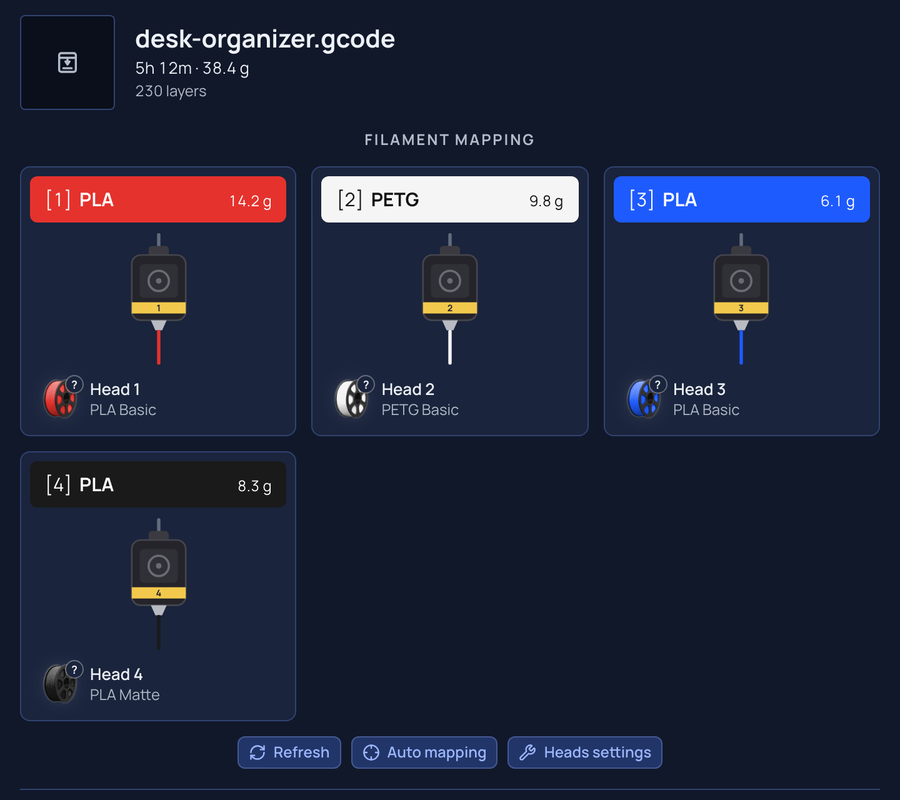
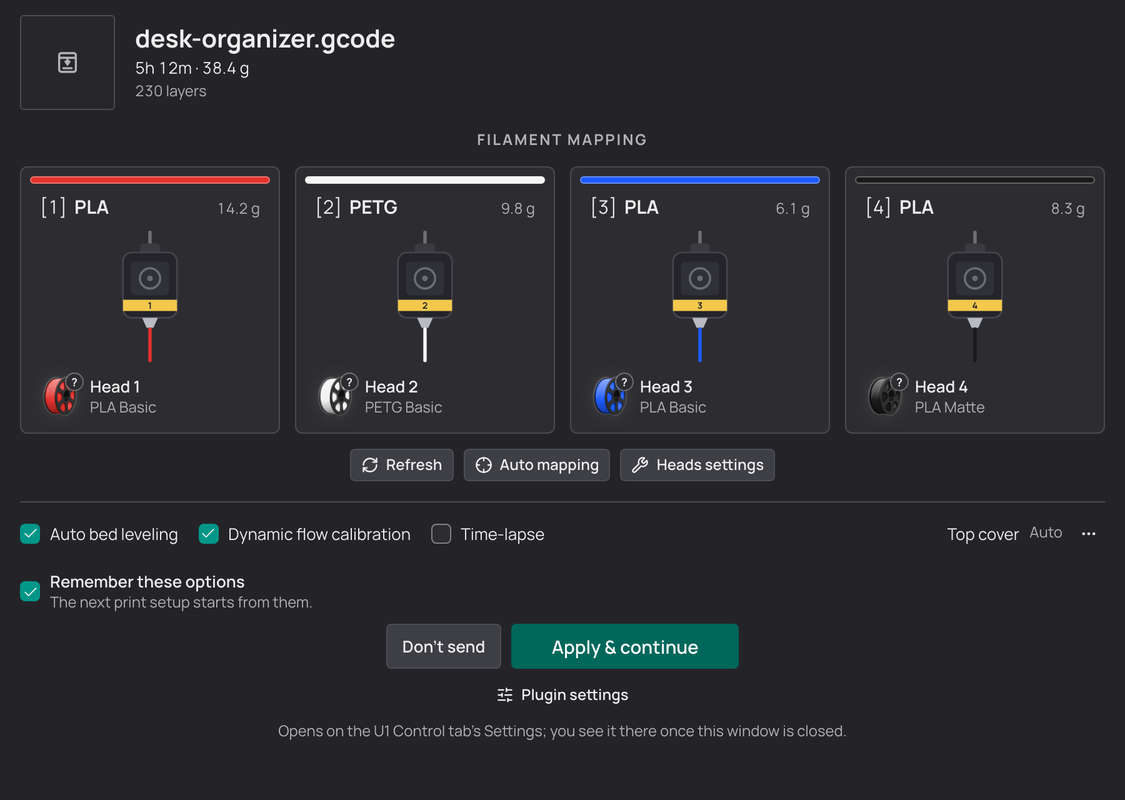
docs(images): re-render the README and listing pictures in the new look
Every export of scripts/render_images.py, from the page on the UI foundation
5.0.7, in English and Brazilian Portuguese.

The scenes are recomposed for the new page:
- camera: the camera panel moves above the controls, so the whole picture
  shows and the temperatures end the image;
- toolheads: nothing after the toolheads panel;
- print setup: 900 px wide, the window's own width, so the four filaments sit
  in one row with the options and buttons under them;
- files (pt-BR): laid out 960 px wide, where the one-row app bar fits;
- the README dashboard picture is tall enough for the whole page.

CLEAN_CUT now runs for every picture, starts from the open tab's page, sees
through display: contents wrappers and never leaves a lone group label.

diff --git a/scripts/render_images.py b/scripts/render_images.py
@@ -65,7 +65,14 @@ SCROLL_TO = ('document.querySelector("main").style.paddingBottom="600px";'   # t
              'p.style.scrollMarginTop=document.querySelector(".oui-appbar").offsetHeight+10+"px";p.scrollIntoView({block:"start"});'
              'scrollTo(0,Math.round(scrollY));')
 CAMERA_ON = ('document.querySelector(\'[data-test="camera"]\').click();'      # start the camera, answer with the mock picture
-             'setTimeout(()=>emit({type:"frame",image:DATA.frame}),50);setTimeout(()=>{%s},300);')
+             'setTimeout(()=>emit({type:"frame",image:DATA.frame}),50);setTimeout(()=>{%s},150);')
+# The camera above the controls, which keep their temperatures only: the whole picture and the whole panel fit the square.
+CAMERA_FIRST = ('const ctl=document.querySelector("#bed-h").closest(".oui-panel");ctl.before(document.querySelector("#cam-h").closest(".oui-panel"));'
+                'ctl.querySelectorAll(".oui-controls-group:not(:first-child)").forEach(e=>e.remove());'
+                'document.querySelector("#scr-h").closest(".oui-panel").remove();')
+# Nothing after the toolheads: the panel that follows would show its title and little else.
+HEADS_LAST = ('const hp=document.querySelector("#heads-h").closest(".oui-panel");document.querySelectorAll("main .oui-panel").forEach(p=>{'
+              'if(hp.compareDocumentPosition(p)&Node.DOCUMENT_POSITION_FOLLOWING&&!hp.contains(p))p.remove();});')
 # The toolhead cards without their heater row, feeder line and buttons: the spools are what they show here.
 COMPACT_HEADS = 'document.querySelectorAll(".hc .oui-slot-extra>[data-heater-row],.hc .oui-slot-extra>p.oui-meta,.hc .oui-slot-actions").forEach(e=>e.remove());'
 # The main and hero images: the print card without the printer photo or its buttons, the four toolheads and their spools right under it
@@ -75,10 +82,10 @@ REELS_UNDER_JOB = ('const job=document.querySelector(\'[data-test="job-card"]\')
                    + 'document.querySelectorAll(".hc .hc-pick").forEach(e=>e.remove());')
 SCREENS = {
     "dash": dict(page="app", section="dash", width=640, spools=True, js=REELS_UNDER_JOB),
-    "camera": dict(page="app", section="dash", width=640, js=CAMERA_ON % (SCROLL_TO % "#bed-h")),
-    "heads": dict(page="app", section="dash", width=640, spools=True, js=SCROLL_TO % "#heads-h" + COMPACT_HEADS),   # all four fit the square
+    "camera": dict(page="app", section="dash", width=640, js=CAMERA_ON % (CAMERA_FIRST + SCROLL_TO % "#cam-h")),
+    "heads": dict(page="app", section="dash", width=640, spools=True, js=HEADS_LAST + SCROLL_TO % "#heads-h" + COMPACT_HEADS),   # all four fit the square
     "files": dict(page="app", section="files", width=880),
-    "setup": dict(page="setup", width=680),
+    "setup": dict(page="setup", width=900),                  # the window's own width: four filaments in one row, options and buttons under them
     "wide": dict(page="app", section="dash", spools=True),
 }
 # Listing sizes by the kind of image (the name of the source file says which).
@@ -88,10 +95,12 @@ LANDSCAPE = (1600, 900)
 # ("Snapmaker U1 · 192.168.1.50 · Extended firmware 2.0.0"), narrow enough to keep the two-row header.
 CSS_WIDTHS = {"en": 740, "pt-BR": 760}      # wide squares: room for the whole firmware line in the header
 CSS_WIDTH_SOCIAL = 760                      # the small square: wide layout too, so the header line fits and no button wraps
+FILES_WIDTH_PT = 960                        # the Files tab in Portuguese: its longer tab names need a wider one-row app bar
 USES = {"tile": "store tile and plugin table icon", "square": "Orca Cloud square image", "social": "GitHub social preview",
         "hero": "README hero", "main": "Orca Cloud main image", "feature": "Orca Cloud gallery and README feature grid"}
 # README screenshots: name, screen, CSS viewport. Exported at 1.25x.
-PLAIN = [("dashboard", "wide", (1280, 800)), ("print-setup", "setup", (720, 640))]
+# The viewports hold the whole page: every toolhead and the controls, and the setup window (900 px wide in OrcaSlicer) down to its buttons.
+PLAIN = [("dashboard", "wide", (1280, 1240)), ("print-setup", "setup", (900, 640))]
 PLAIN_SCALE = 1.25
 # The mock camera picture: the print inside the printer, cut from the cover photograph (x, y, width, height).
 CAMERA_CROP = ("u1control-workshop-cover-en.png", (372, 668, 208, 117))
@@ -275,16 +284,23 @@ def font_css():
 # Ends the page at a clean edge: the first row or card that would be cut by the bottom of the image (at `H`
 # CSS px) is hidden with everything below it, under a block in the page colour.
 CLEAN_CUT = """(H=>{
-  let el = document.querySelector("main"), cut = H;
+  // the open tab's page (the other tabs are hidden); above: where the page ends if `el` goes whole
+  let el = [...document.querySelectorAll("main")].find(m => m.offsetHeight) || document.body, cut = H, above = 0;
+  // the boxes inside `e`: a display: contents wrapper has none of its own, its children stand in for it
+  const boxes = e => [...e.children].flatMap(k => getComputedStyle(k).display === "contents" ? boxes(k) : [k]);
   for (;;) {
-    const kids = [...el.children].filter(k => k.offsetHeight > 0), rect = k => k.getBoundingClientRect();
+    const kids = boxes(el).filter(k => k.offsetHeight > 0), rect = k => k.getBoundingClientRect();
     const s = kids.find(k => rect(k).top < H && rect(k).bottom > H);
-    if (!s) { cut = Math.max(0, ...kids.map(k => rect(k).bottom).filter(b => b <= H)); break; }
-    if (rect(s).height <= 90 || !s.children.length) {
-      const i = kids.indexOf(s), prev = i ? rect(kids[i - 1]).bottom : rect(s).top;
-      cut = (prev + rect(s).top) / 2; break;
+    if (!s) {   // nothing is cut here; a block with no measurable children goes whole
+      const ends = kids.map(k => rect(k).bottom).filter(b => b <= H);
+      cut = ends.length ? Math.max(...ends) : above; break;
     }
-    el = s;
+    const i = kids.indexOf(s), here = ((i ? rect(kids[i - 1]).bottom : rect(s).top) + rect(s).top) / 2;
+    if (rect(s).height <= 90 || !s.children.length) {
+      // a group left with only its label goes whole too
+      cut = i && kids.slice(0, i).every(k => k.matches(".oui-label")) ? above : here; break;
+    }
+    above = here; el = s;
   }
   const d = document.createElement("div");
   d.style.cssText = "position:fixed;left:0;right:0;bottom:0;z-index:99;top:" + Math.min(cut, H) + "px;background:" + getComputedStyle(document.body).backgroundColor;
@@ -294,7 +310,7 @@ CLEAN_CUT = """(H=>{
 
 def make_page(html, theme, stub_data, section=None, scroll=None, js=None, cut=None):
     root = ":root{%s}" % ";".join("%s:%s" % kv for kv in THEMES[theme].items())
-    head = "<style>%s%s</style>%s" % (font_css(), root, STUB % json.dumps(stub_data).replace("</", "<\\/"))
+    head = "<style>%s%s::-webkit-scrollbar{display:none}</style>%s" % (font_css(), root, STUB % json.dumps(stub_data).replace("</", "<\\/"))
     steps = []
     if section:
         steps.append('setTimeout(()=>document.querySelector(\'[data-tab="%s"]\').click(),300);' % section)
@@ -416,6 +432,8 @@ def save(im, rel):
 
 
 def css_width_for(rel, screen, lang):
+    if screen == "files" and lang == "pt-BR":
+        return FILES_WIDTH_PT          # the one-row app bar cuts "Ajustes" and "Imprimindo" short below this
     if screen not in ("dash", "camera"):   # the setup window, toolheads and files keep their own layout widths
         return None
     return CSS_WIDTH_SOCIAL if rel.startswith("social/") else CSS_WIDTHS[lang]
@@ -430,7 +448,7 @@ def export_artwork(env, src):
     if screen:
         box, radius = find_square(art)
         paste_rounded(art, shoot(env, screen, theme, lang, (box[2] - box[0], box[3] - box[1]),
-                                 css_width_for(rel, screen, lang), clean=screen == "dash"), box, radius)
+                                 css_width_for(rel, screen, lang), clean=True), box, radius)
         op += "; mock screenshot '%s' (%s, %s) pasted inside the square at x=%d y=%d, %dx%d, corner radius %d" % (
             screen, theme, lang, box[0], box[1], box[2] - box[0], box[3] - box[1], radius)
     return {**save(art, rel), "source": "assets/marketing/source/" + src.name, "operation": op, "use": use}
@@ -439,7 +457,7 @@ def export_artwork(env, src):
 def export_plain(env, name, screen, viewport, theme, lang):
     size = (round(viewport[0] * PLAIN_SCALE), round(viewport[1] * PLAIN_SCALE))
     rel = "readme/u1control-screenshot-%s-%s-%s.png" % (name, theme, lang)
-    return {**save(shoot(env, screen, theme, lang, size, viewport[0]), rel), "source": "the built page (src/u1control/ui/app.html) with fake data",
+    return {**save(shoot(env, screen, theme, lang, size, viewport[0], clean=True), rel), "source": "the built page (src/u1control/ui/app.html) with fake data",
             "operation": "mock screenshot '%s' (%s, %s), %dx%d CSS px at %gx" % ((screen, theme, lang) + viewport + (PLAIN_SCALE,)),
             "use": "README screenshot"}
 

diff --git a/README.pt-BR.md b/README.pt-BR.md
@@ -26,7 +26,7 @@ O U1 Control é um plugin do OrcaSlicer 2.5 para a Snapmaker U1. Ele acrescenta 
 <p align="center">
   <picture>
     <source media="(prefers-color-scheme: dark)" srcset="assets/readme/u1control-screenshot-dashboard-dark-pt-BR.png">
-    <img alt="O Painel do U1 Control durante uma impressão: progresso, mesa e câmara, câmera e as quatro cabeças com suas bobinas" src="assets/readme/u1control-screenshot-dashboard-light-pt-BR.png" width="100%">
+    <img alt="O Painel do U1 Control durante uma impressão: progresso e tempos, as quatro cabeças com suas bobinas, os controles, a câmera e a tela da impressora" src="assets/readme/u1control-screenshot-dashboard-light-pt-BR.png" width="100%">
   </picture>
 </p>
 
@@ -57,17 +57,17 @@ A partir de um arquivo:
       <p><b>Preparo da impressão</b><br>Cada filamento é relacionado a uma cabeça por material e cor antes de o arquivo sair do OrcaSlicer.</p>
     </td>
     <td width="50%" valign="top">
-      <img src="assets/orca-cloud/u1control-feature-02-dashboard-pt-BR.png" alt="O Painel: temperatura da mesa, velocidade, tampa superior, luz da câmara e a imagem da câmera" width="100%">
+      <img src="assets/orca-cloud/u1control-feature-02-dashboard-pt-BR.png" alt="O Painel: a imagem da câmera com a temperatura da mesa logo abaixo" width="100%">
       <p><b>Painel</b><br>Status, temperaturas, câmera, pausar, retomar, cancelar e parada de emergência em uma página.</p>
     </td>
   </tr>
   <tr>
     <td width="50%" valign="top">
-      <img src="assets/orca-cloud/u1control-feature-03-filament-pt-BR.png" alt="As cabeças T1 e T2 com filamento, etiqueta RFID, bobina do Spoolman e gramas restantes" width="100%">
+      <img src="assets/orca-cloud/u1control-feature-03-filament-pt-BR.png" alt="As cabeças T1 a T4 com filamento, etiqueta RFID, bobina do Spoolman e gramas restantes" width="100%">
       <p><b>Cabeças e bobinas</b><br>Veja e edite o filamento de cada cabeça, leia a etiqueta RFID e vincule uma bobina do Spoolman por cabeça.</p>
     </td>
     <td width="50%" valign="top">
-      <img src="assets/orca-cloud/u1control-feature-04-files-pt-BR.png" alt="A página Arquivos: pastas, arquivos de impressão com tempo e filamento, e a lista de timelapses" width="100%">
+      <img src="assets/orca-cloud/u1control-feature-04-files-pt-BR.png" alt="A página Arquivos: a árvore de pastas, arquivos de impressão com tamanho e data, e a lista de timelapses" width="100%">
       <p><b>Arquivos e timelapses</b><br>Imprima, renomeie, mova e apague arquivos da impressora e salve os vídeos de timelapse no computador.</p>
     </td>
   </tr>
@@ -116,7 +116,7 @@ Os detalhes estão em [docs/features.md](docs/features.md) e todos os ajustes em
 <p align="center">
   <picture>
     <source media="(prefers-color-scheme: dark)" srcset="assets/readme/u1control-screenshot-print-setup-dark-pt-BR.png">
-    <img alt="A janela Preparar impressão na U1: Filamento para cabeça com quatro filamentos, Opções de impressão e o botão Enviar à U1" src="assets/readme/u1control-screenshot-print-setup-light-pt-BR.png" width="720">
+    <img alt="A janela Preparar impressão na U1: quatro filamentos mapeados para as cabeças, as opções de impressão e o botão Aplicar e continuar" src="assets/readme/u1control-screenshot-print-setup-light-pt-BR.png" width="900">
   </picture>
 </p>
 

diff --git a/README.md b/README.md
@@ -26,7 +26,7 @@ U1 Control is an OrcaSlicer 2.5 plugin for the Snapmaker U1. It adds a printer t
 <p align="center">
   <picture>
     <source media="(prefers-color-scheme: dark)" srcset="assets/readme/u1control-screenshot-dashboard-dark-en.png">
-    <img alt="The U1 Control Dashboard during a print: progress, bed and chamber, camera, and the four toolheads with their spools" src="assets/readme/u1control-screenshot-dashboard-light-en.png" width="100%">
+    <img alt="The U1 Control Dashboard during a print: progress and times, the four toolheads with their spools, the controls, the camera and the printer screen" src="assets/readme/u1control-screenshot-dashboard-light-en.png" width="100%">
   </picture>
 </p>
 
@@ -57,17 +57,17 @@ From a file:
       <p><b>Print setup</b><br>Each filament is matched to a toolhead by material and colour before the file leaves OrcaSlicer.</p>
     </td>
     <td width="50%" valign="top">
-      <img src="assets/orca-cloud/u1control-feature-02-dashboard-en.png" alt="The Dashboard: bed temperature, speed, top cover, chamber light and the camera picture" width="100%">
+      <img src="assets/orca-cloud/u1control-feature-02-dashboard-en.png" alt="The Dashboard: the camera picture with the bed temperature under it" width="100%">
       <p><b>Dashboard</b><br>Status, temperatures, camera, pause, resume, cancel and emergency stop on one page.</p>
     </td>
   </tr>
   <tr>
     <td width="50%" valign="top">
-      <img src="assets/orca-cloud/u1control-feature-03-filament-en.png" alt="Toolheads T1 and T2 with their filament, RFID tag, Spoolman spool and grams left" width="100%">
+      <img src="assets/orca-cloud/u1control-feature-03-filament-en.png" alt="The toolheads T1 to T4 with their filament, RFID tag, Spoolman spool and grams left" width="100%">
       <p><b>Toolheads and spools</b><br>See and edit the filament in each head, read its RFID tag and link one Spoolman spool per head.</p>
     </td>
     <td width="50%" valign="top">
-      <img src="assets/orca-cloud/u1control-feature-04-files-en.png" alt="The Files page: folders, print files with time and filament, and the time-lapse list" width="100%">
+      <img src="assets/orca-cloud/u1control-feature-04-files-en.png" alt="The Files page: the folder tree, print files with size and date, and the time-lapse list" width="100%">
       <p><b>Files and time-lapses</b><br>Print, rename, move and delete files on the printer, and save its time-lapse videos to your computer.</p>
     </td>
   </tr>
@@ -116,7 +116,7 @@ Every detail is in [docs/features.md](docs/features.md), and every setting in [d
 <p align="center">
   <picture>
     <source media="(prefers-color-scheme: dark)" srcset="assets/readme/u1control-screenshot-print-setup-dark-en.png">
-    <img alt="The U1 print setup window: Filament to toolhead for four filaments, Print options, and the Send to U1 button" src="assets/readme/u1control-screenshot-print-setup-light-en.png" width="720">
+    <img alt="The U1 print setup window: four filaments mapped to the toolheads, the print options, and the Apply &amp; continue button" src="assets/readme/u1control-screenshot-print-setup-light-en.png" width="900">
   </picture>
 </p>
 
